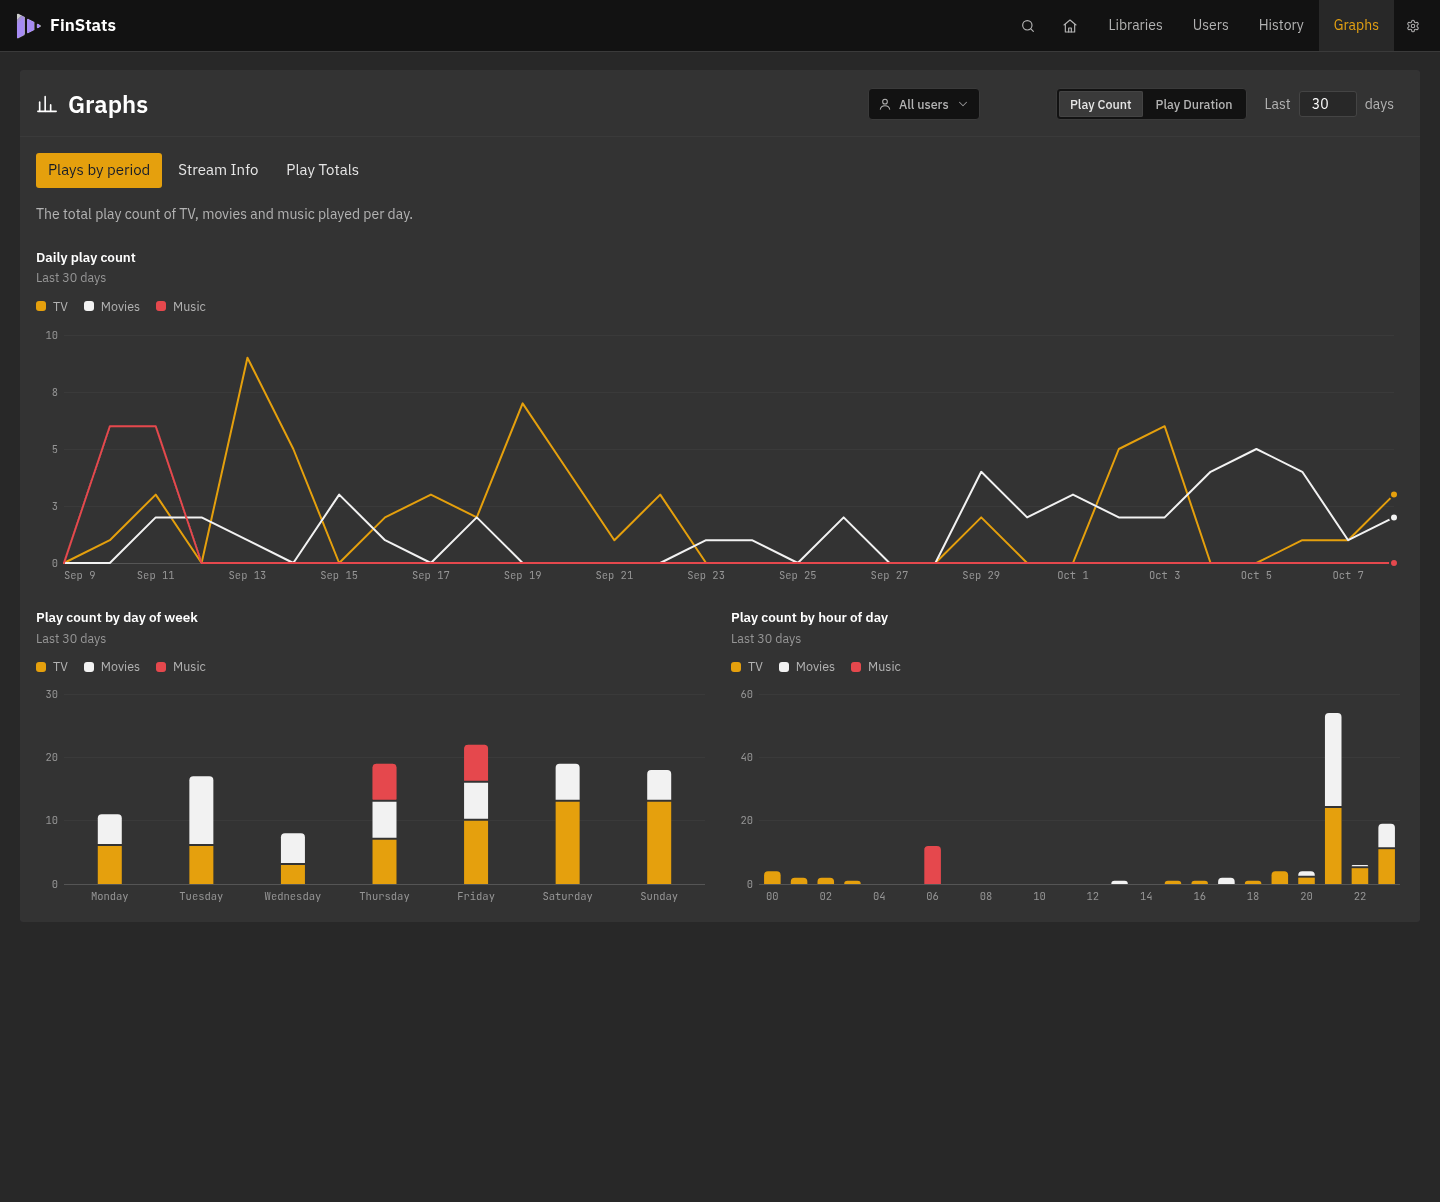
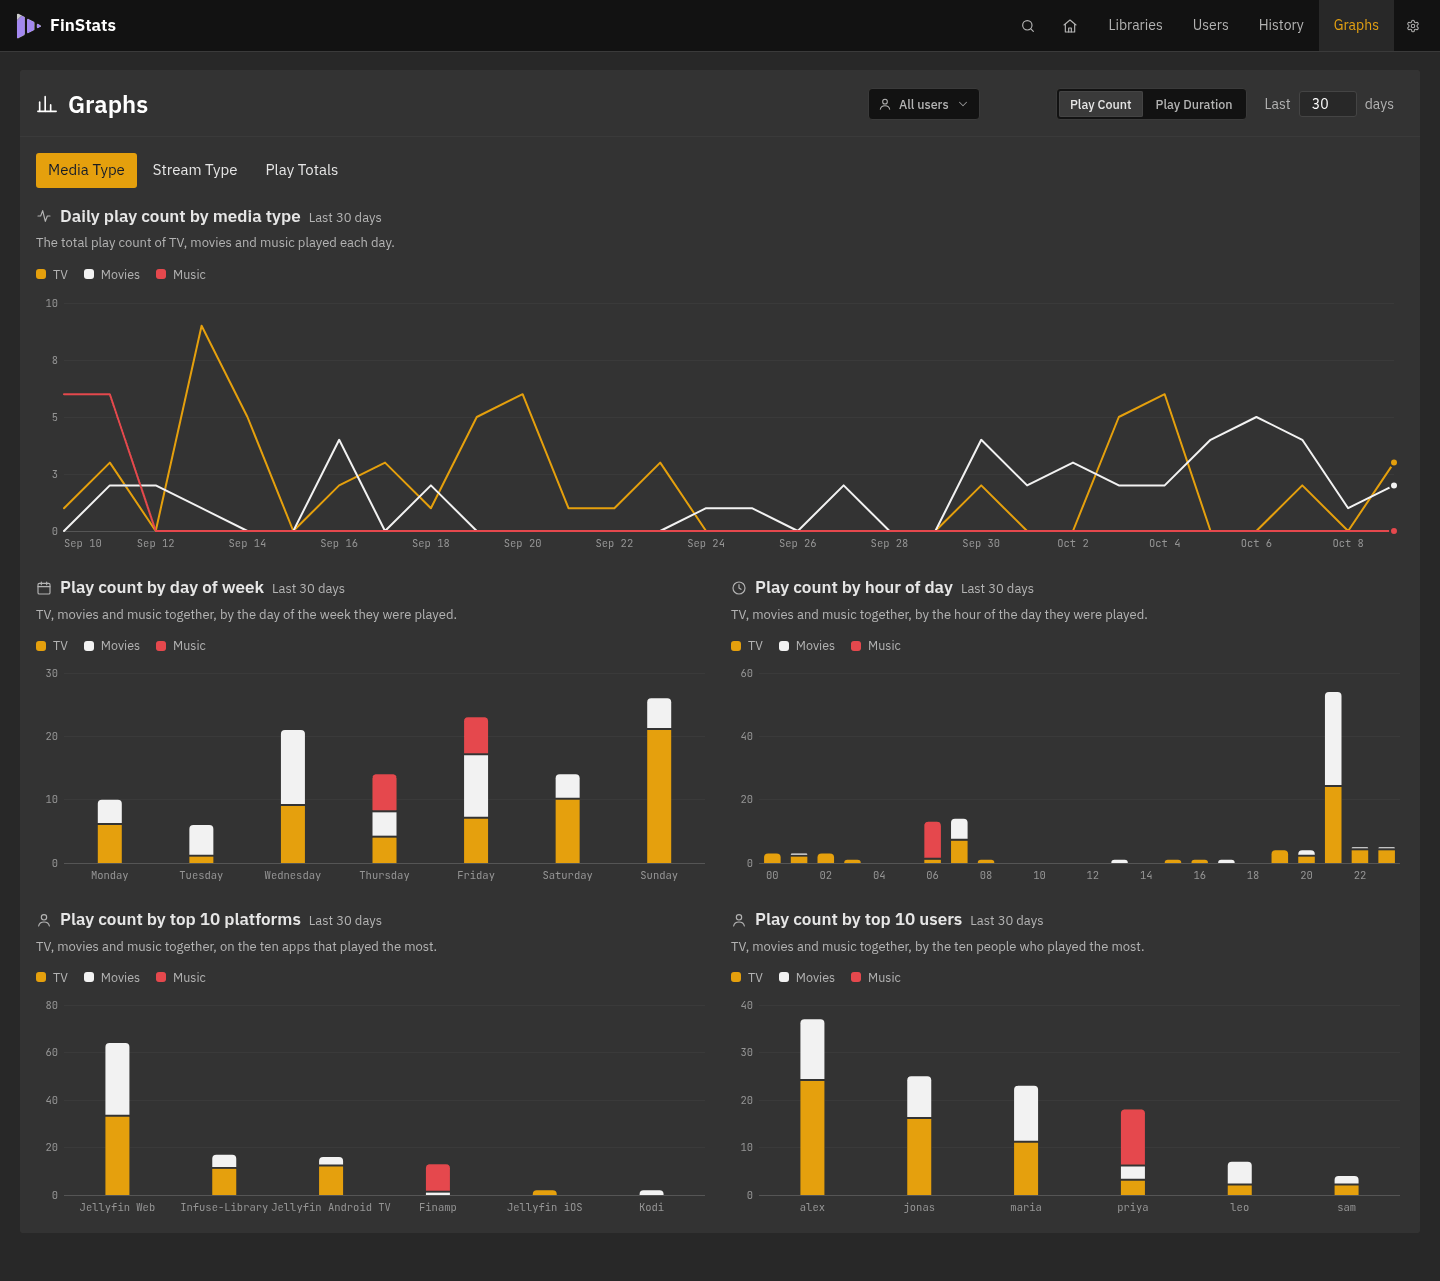
docs(finstats): /api/stats/split, the peak by stream type, and Simple mode's Graphs

diff --git a/docs/finstats/api.md b/docs/finstats/api.md
@@ -413,7 +413,9 @@ known, or no `parts`, is every key below.
 {
   "concurrency": {"peak": 4, "peak_at": 1790000000|null,
                   "peak_transcodes": 2, "peak_direct_streams": 1, "peak_direct_plays": 3,   // the most of each at once, each its own maximum
-                  "series": [{"date": "2026-01-31", "peak": 3}], "bucket": "day"|"week"},   // gap-free, same bucketing as overview.daily
+                  "series": [{"date": "2026-01-31", "peak": 3,                              // gap-free, same bucketing as overview.daily
+                              "by": {"Transcode": 1, "DirectStream": 0, "DirectPlay": 2}}],   // the most of each at once in the bucket
+                  "bucket": "day"|"week"},
   "network": [Bucket],            // names "Local" / "Remote" / "Unknown"; [] for non-admins
   "data_bytes": 1234567890,       // estimated bytes sent to clients (stream bitrate × time watched)
   "genres": [Bucket],             // by watch time; episodes count towards their series' genres; max 12 + "Other"
@@ -423,6 +425,29 @@ known, or no `parts`, is every key below.
   "failed_logins": [ {"date": 0, "overview": "…", "user_name": null} ]   // 🔒 newest 10 in window; [] for non-admins
 }
 ```
+
+## `GET /api/stats/split?group=&by=&sort=&limit=` (common filters): plays by one thing, split by another
+
+What Simple mode's Graphs draw. `group` is required (anything else is a 400): `client`, `user`, `source_resolution` (the
+file's), `stream_resolution` (what a video transcode sent, else the file's) are ranked rows; `day` and `month` are a
+gap-free series. `by` is `type` (the default: kinds of media) or `method` (how it played). Ranked rows are by plays, or by
+time watched with `sort=watch`; `limit` is 1 to 50 (default 10). Without `see_everyone` every row is the caller's own plays.
+
+```jsonc
+{
+  "keys": ["Movie", "Episode", "Audio", "Other"],   // by=method: ["DirectPlay", "DirectStream", "Transcode"]
+  "bucket": null,                                   // "day"|"week" for group=day (overview.daily's rule), "month" for group=month
+  "rows": [
+    {"id": "…"|null,                                // the person's id for group=user, else null
+     "name": "Jellyfin Web",                        // group=day|month: "date": "2026-01-31" | "2026-01" instead of id and name
+     "plays": 3, "watch_s": 1100,
+     "by": {"Movie": [1, 600], "Episode": [1, 300], "Audio": [1, 200], "Other": [0, 0]}}   // [plays, watch_s] per key
+  ]
+}
+```
+
+A play that never said how it played counts in its row and in no part of `by=method`. Plays without a resolution
+(music) are in no resolution row.
 
 ## `GET /api/library/insights?library_id=`: what the library is made of (no time window)
 

diff --git a/docs/finstats/tour.md b/docs/finstats/tour.md
@@ -19,7 +19,10 @@ A second layout for people who come from Plex, chosen per browser under Settings
 the top instead of the menu, and the stats alone, laid out the way a classic Plex stats server is. Home has what is
 playing (a card per stream with how it plays, from where and when it ends), the watch statistics as ranked cards by play
 count or duration over the last N days, the libraries and what arrived lately. Libraries, Users, History and Graphs are
-pages of their own, each library, person and title with its global figures and its own history. Simple mode loads only
+pages of their own, each library, person and title with its global figures and its own history. Graphs draws plays by
+kind of media (day by day, by weekday and hour, the top ten apps and people), by how they played (day by day, the most
+streams at once, source and sent resolution, apps and people) and month by month, by play count or duration, for
+everybody or the people chosen. Simple mode loads only
 its own half of FinStats; the rest (Recap, Together, Pipeline, Security and the server pages) stays in the FinStats
 layout. Both themes, and nothing on it moves.
 
